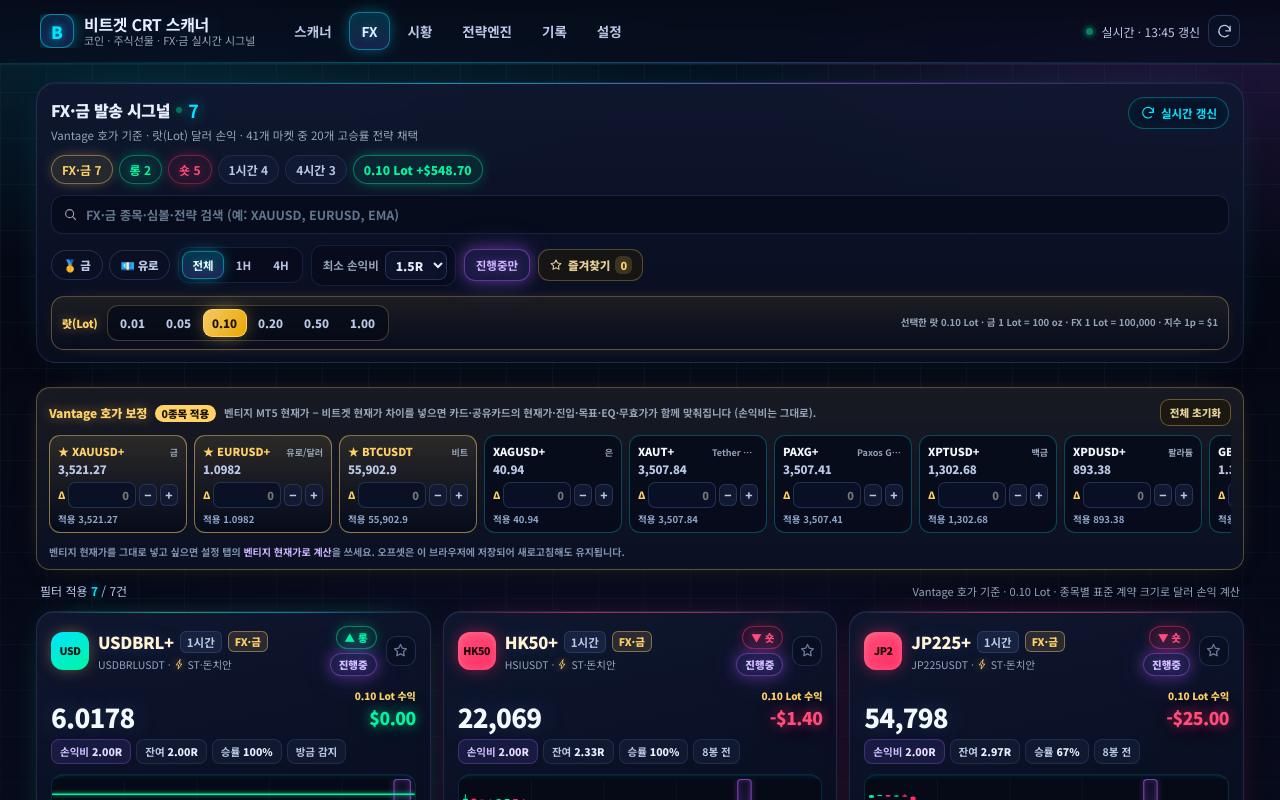
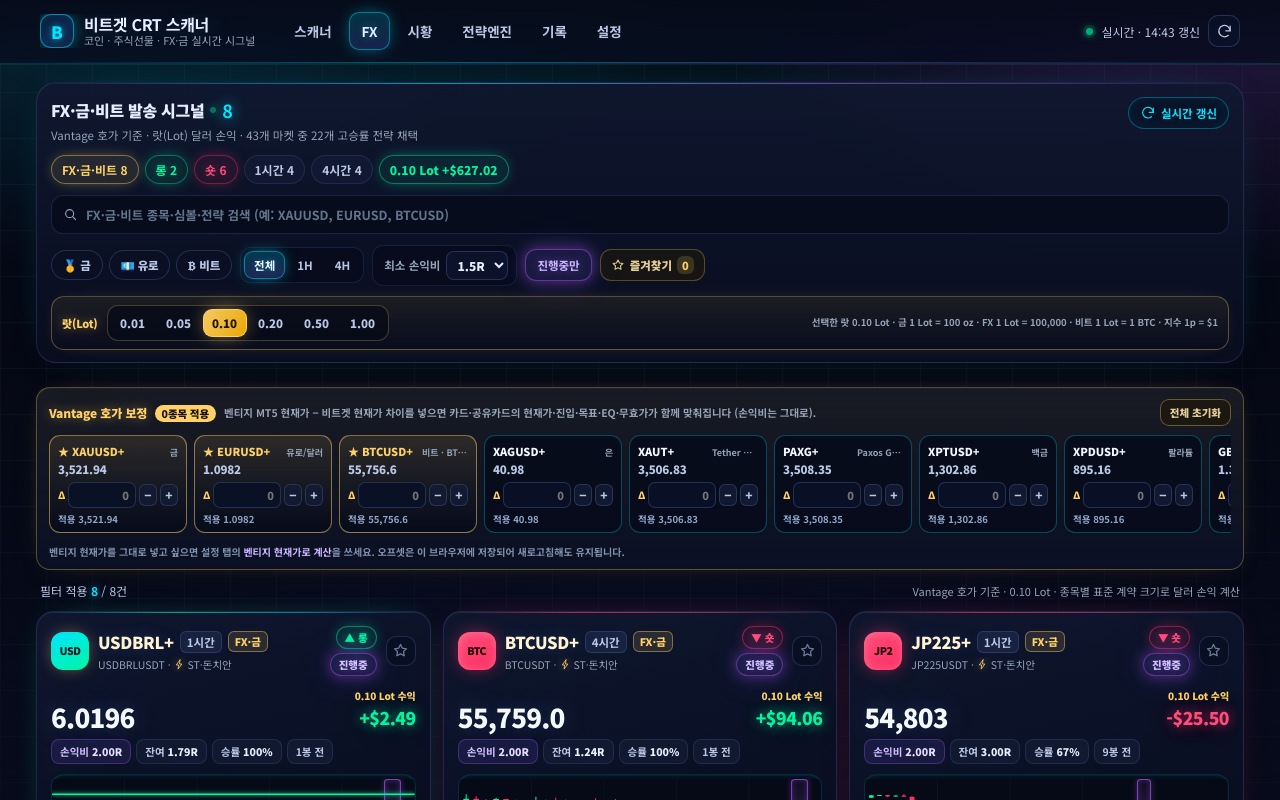
feat(fx): FX 탭에 비트코인(BTCUSD+) 랏(Lot) 카드 추가 — 1 Lot = 1 BTC
- 비트겟 BTCUSDT 1H/4H 시그널을 그대로 재사용해 FX 탭에 BTCUSD+ 카드 표시(src/lib/fxview.ts, 추가 API 호출 없음)
- lot.ts: BTCUSD+/BTCUSD/BTC = 1 Lot = 1 BTC (가격차 × 1 × lot)
- FX 탭 퀵 필터 ₿ 비트 추가, 카운터·배지에 BTCUSD+ 포함
- ★ BTCUSD+ 호가 보정 입력이 카드·공유 카드 가격에 반영(저장 키는 기존 BTC 별칭)
- 검증: lot-check 24종목 + fx-lot-check 43항목 PASS, 스크린샷 15-fx-btc-lot.png

diff --git a/src/components/FxTab.tsx b/src/components/FxTab.tsx
@@ -2,6 +2,7 @@ import { useEffect, useMemo, useState } from 'react';
 import type { Signal } from '../engine/types';
 import type { ScanState } from '../hooks/useScanner';
 import { favoriteKey, type FavoriteEntry } from '../lib/favorites';
+import { fxTabSignals, isFxCryptoSymbol, isFxFavorite, toFxView } from '../lib/fxview';
 import { tfLabel } from '../lib/format';
 import { offsetFor, shiftSignal } from '../lib/offset';
 import type { Settings } from '../lib/storage';
@@ -21,10 +22,11 @@ interface Props {
   onRescan: () => void;
 }
 
-/** 주력 2종목 원클릭 퀵 필터 */
+/** 주력 3종목 원클릭 퀵 필터 — 금 · 유로 · 비트 */
 const QUICK_FILTERS: { key: string; label: string; query: string; hint: string }[] = [
   { key: 'gold', label: '🥇 금', query: 'XAU', hint: 'XAUUSD+ · 금 현물' },
   { key: 'euro', label: '💶 유로', query: 'EURUSD', hint: 'EURUSD+ · 유로/달러' },
+  { key: 'btc', label: '₿ 비트', query: 'BTCUSD', hint: 'BTCUSD+ · 비트코인 (1 Lot = 1 BTC)' },
 ];
 
 const PAGE_SIZE = 12;
@@ -61,7 +63,7 @@ export function FxTab({
     setVisible(PAGE_SIZE);
   }, [query, tf, onlyOpen, favOnly, settings.minRR, lot]);
 
-  const fxSignals = useMemo(() => state.signals.filter((s) => s.asset === 'fx'), [state.signals]);
+  const fxSignals = useMemo(() => fxTabSignals(state.signals), [state.signals]);
   const openFx = useMemo(() => fxSignals.filter((s) => s.state === 'open'), [fxSignals]);
 
   const counts = useMemo(
@@ -92,13 +94,16 @@ export function FxTab({
     return map;
   }, [state.signals]);
 
-  const fxFavorites = useMemo(() => favorites.filter((f) => f.signal.asset === 'fx'), [favorites]);
+  const fxFavorites = useMemo(() => favorites.filter((f) => isFxFavorite(f.signal)), [favorites]);
 
   const favoriteSignals = useMemo(() => {
     return fxFavorites
       .filter((f) => matchesQuery(liveByKey.get(f.key) ?? f.signal, terms))
-      .map((f) => ({ entry: f, signal: liveByKey.get(f.key) ?? null }))
-      .map(({ entry, signal }) => ({ signal: signal ?? entry.signal, stale: !signal }))
+      .map((f) => {
+        const live = liveByKey.get(f.key);
+        // 코인으로 찜한 BTC도 FX 탭에서는 BTCUSD+ 카드로 보여준다.
+        return { signal: toFxView(live ?? f.signal), stale: !live };
+      })
       .sort((a, b) => {
         const rank = (x: { signal: Signal }) => (x.signal.state === 'open' ? 0 : 1);
         if (rank(a) !== rank(b)) return rank(a) - rank(b);
@@ -128,10 +133,12 @@ export function FxTab({
   const remaining = filtered.length - shown.length;
   const activeQuick = QUICK_FILTERS.find((q) => q.query.toLowerCase() === query.trim().toLowerCase());
 
-  const qualified = state.analyses.filter(
-    (a) => a.asset === 'fx' && a.activeWinRate >= 55 && a.activeRR >= 1.5 && a.activeN >= 2,
+  // FX·금 + BTCUSD+(비트겟 BTCUSDT 분석 재사용) — 마켓 수·고승률 전략 수
+  const fxAnalyses = state.analyses.filter((a) => a.asset === 'fx' || isFxCryptoSymbol(a.symbol));
+  const qualified = fxAnalyses.filter(
+    (a) => a.activeWinRate >= 55 && a.activeRR >= 1.5 && a.activeN >= 2,
   ).length;
-  const fxMarkets = state.analyses.filter((a) => a.asset === 'fx').length;
+  const fxMarkets = fxAnalyses.length;
   const scanning = state.status === 'scanning';
   const pct = state.progress.total ? Math.round((state.progress.done / state.progress.total) * 100) : 0;
 
@@ -141,7 +148,7 @@ export function FxTab({
         <div className="summary-top">
           <div>
             <div className="summary-title">
-              FX·금 발송 시그널 <span className="dot-live" /> <b>{counts.open}</b>
+              FX·금·비트 발송 시그널 <span className="dot-live" /> <b>{counts.open}</b>
             </div>
             <div className="summary-sub">
               Vantage 호가 기준 · 랏(Lot) 달러 손익 · {fxMarkets}개 마켓 중 {qualified}개 고승률 전략 채택
@@ -154,7 +161,7 @@ export function FxTab({
         </div>
 
         <div className="counter-row">
-          <span className="counter fx">FX·금 {counts.open}</span>
+          <span className="counter fx">FX·금·비트 {counts.open}</span>
           <span className="counter long">롱 {counts.long}</span>
           <span className="counter short">숏 {counts.short}</span>
           <span className="counter">
@@ -175,7 +182,7 @@ export function FxTab({
               type="search"
               value={query}
               onChange={(e) => setQuery(e.target.value)}
-              placeholder="FX·금 종목·심볼·전략 검색 (예: XAUUSD, EURUSD, EMA)"
+              placeholder="FX·금·비트 종목·심볼·전략 검색 (예: XAUUSD, EURUSD, BTCUSD)"
               aria-label="FX 종목·심볼·전략 검색"
               enterKeyHint="search"
             />
@@ -276,7 +283,8 @@ export function FxTab({
             })}
           </div>
           <span className="lot-hint">
-            선택한 랏 {fmtLot(lot)} Lot · 금 1 Lot = 100 oz · FX 1 Lot = 100,000 · 지수 1p = $1
+            선택한 랏 {fmtLot(lot)} Lot · 금 1 Lot = 100 oz · FX 1 Lot = 100,000 · 비트 1 Lot = 1 BTC · 지수
+            1p = $1
           </span>
         </div>
 
@@ -405,7 +413,7 @@ export function FxTab({
           <div className="empty">
             <div className="empty-title">조건을 통과한 FX 시그널이 없습니다</div>
             <p>
-              현재 FX·금·원자재·지수 {fxMarkets}개 마켓을 200봉 기준으로 다시 계산했지만, 고승률 기준(승률 55% ·
+              현재 FX·금·원자재·지수·비트 {fxMarkets}개 마켓을 200봉 기준으로 다시 계산했지만, 고승률 기준(승률 55% ·
               손익비 {settings.minRR.toFixed(1)}R)을 만족하는 진행중 시그널이 없습니다.
             </p>
             <div className="empty-actions">

diff --git a/src/lib/fxview.ts b/src/lib/fxview.ts
@@ -1,0 +1,53 @@
+import type { Signal } from '../engine/types';
+
+/**
+ * FX 탭에 함께 보여줄 코인 CFD.
+ * 스캐너 탭이 이미 받아 둔 비트겟 BTCUSDT 캔들·시그널을 벤티지 MT5 표기(BTCUSD+)로 바꿔
+ * 그대로 재사용한다 — 추가 API 호출 없이 FX 탭에 바로 나타난다.
+ */
+export interface FxCryptoMeta {
+  /** 비트겟 계약 심볼(이미 스캔된 데이터) */
+  symbol: string;
+  /** FX 탭 표시 이름 — 벤티지 MT5 호가 이름 */
+  base: string;
+  /** 화면 보조 설명 */
+  note: string;
+  /** 가격 소수점 자리수(비트겟 BTCUSDT pricePlace 준용) */
+  decimals: number;
+}
+
+export const FX_CRYPTO_UNIVERSE: FxCryptoMeta[] = [
+  { symbol: 'BTCUSDT', base: 'BTCUSD+', note: '비트코인 · 1 Lot = 1 BTC', decimals: 1 },
+];
+
+const BY_SYMBOL = new Map(FX_CRYPTO_UNIVERSE.map((m) => [m.symbol, m]));
+
+export function fxCryptoMeta(symbol: string): FxCryptoMeta | undefined {
+  return BY_SYMBOL.get(symbol);
+}
+
+/** FX 탭에서 코인 CFD로 보여줄 비트겟 계약인지 */
+export function isFxCryptoSymbol(symbol: string): boolean {
+  return BY_SYMBOL.has(symbol);
+}
+
+/**
+ * 시그널을 FX 탭 카드로 바꾼다.
+ * 이미 FX·금 시그널이거나 대응하는 코인 CFD가 없으면 그대로 돌려준다(호출부에서 asset으로 거른다).
+ */
+export function toFxView(signal: Signal): Signal {
+  if (signal.asset === 'fx') return signal;
+  const meta = BY_SYMBOL.get(signal.symbol);
+  if (!meta) return signal;
+  return { ...signal, base: meta.base, asset: 'fx', decimals: meta.decimals };
+}
+
+/** FX 탭에 표시할 시그널 = 기존 FX·금·원자재·지수 + BTCUSD+ */
+export function fxTabSignals(signals: Signal[]): Signal[] {
+  return signals.map(toFxView).filter((s) => s.asset === 'fx');
+}
+
+/** FX 탭 즐겨찾기 대상 — FX·금 시그널과 BTCUSD+ 코인 CFD */
+export function isFxFavorite(signal: Signal): boolean {
+  return signal.asset === 'fx' || isFxCryptoSymbol(signal.symbol);
+}

diff --git a/src/utils/lot.ts b/src/utils/lot.ts
@@ -10,6 +10,7 @@ import type { Signal } from '../engine/types';
  *   · FX: 1 Lot = 100,000 (USD 견적은 가격차 × 100,000 × lot,
  *     USD/XXX·XXX/JPY는 (가격차 ÷ 청산가) × 100,000 × lot 로 달러 환산)
  *   · 지수(DXY 포함): 1 Lot = 1 계약 = 1포인트당 $1
+ *   · 비트코인(BTCUSD+): 1 Lot = 1 BTC (가격차 × 1 × lot — $1,000 이동 × 0.10 Lot = $100.00)
  */
 
 export const LOT_PRESETS = [0.01, 0.05, 0.1, 0.2, 0.5, 1] as const;
@@ -29,7 +30,11 @@ export interface LotSpec {
 
 const gold: LotSpec = { size: 100, mode: 'quote', pip: 0.01, pipUnit: '포인트', label: '1 Lot = 100 oz' };
 
+/** 벤티지 MT5 BTCUSD+ — 1 Lot = 1 BTC, 1포인트(=$1)당 lot 달러 */
+const bitcoin: LotSpec = { size: 1, mode: 'quote', pip: 1, pipUnit: '포인트', label: '1 Lot = 1 BTC' };
+
 const FIXED: Record<string, LotSpec> = {
+  BTC: bitcoin,
   XAU: gold,
   XAUT: { ...gold, label: '1 Lot = 100 oz' },
   PAXG: { ...gold, label: '1 Lot = 100 oz' },
@@ -72,6 +77,8 @@ export function lotSpec(base: string): LotSpec {
   const key = base.replace(/\+$/, '').toUpperCase();
   const fixed = FIXED[key];
   if (fixed) return fixed;
+  // BTCUSD+ · BTCUSD — 비트겟 BTCUSDT 캔들을 그대로 쓰는 벤티지 비트코인 CFD
+  if (key === 'BTCUSD') return bitcoin;
   // XAUUSD+ · XAGUSD+ · XPTUSD+ · XPDUSD+ · XAUT+ · PAXG+ — 견적통화가 붙어 있어도 금속 계약
   if (METAL_100.some((m) => key.startsWith(m))) return FIXED.XAU;
   if (key.startsWith('XAG')) return FIXED.XAG;

diff --git a/src/lib/offset.ts b/src/lib/offset.ts
@@ -3,9 +3,25 @@ import type { Signal } from '../engine/types';
 /** 종목 표시 이름(예: `XAUUSD+`) → 가격 오프셋 */
 export type OffsetMap = Record<string, number>;
 
+/**
+ * 호가 보정 저장 키 별칭 — `BTCUSD+` 카드는 호가 보정 표의 기존 ★ BTC 입력(비트겟 BTCUSDT 기준)을
+ * 그대로 쓴다. 이미 저장된 오프셋이 있어도 그대로 반영된다.
+ */
+const OFFSET_ALIAS: Record<string, string> = { 'BTCUSD+': 'BTC' };
+
+/** 표시 이름 → 오프셋 저장 키 */
+export function offsetKeyFor(base: string): string {
+  return OFFSET_ALIAS[base] ?? base;
+}
+
 export function offsetFor(base: string, offsets?: OffsetMap | null): number {
-  const v = offsets?.[base];
-  return typeof v === 'number' && Number.isFinite(v) ? v : 0;
+  if (!offsets) return 0;
+  const key = offsetKeyFor(base);
+  for (const k of key === base ? [base] : [key, base]) {
+    const v = offsets[k];
+    if (typeof v === 'number' && Number.isFinite(v)) return v;
+  }
+  return 0;
 }
 
 /**

diff --git a/src/components/FxOffsetBar.tsx b/src/components/FxOffsetBar.tsx
@@ -98,11 +98,12 @@ export function buildFxRows(state: ScanState, twelveDataKey: string): FxRow[] {
     live: scanned.has(label),
   });
 
-  // 1) 주력 3종목 고정: 금(XAUUSD+) · 유로(EURUSD+) · 비트(BTC)
+  // 1) 주력 3종목 고정: 금(XAUUSD+) · 유로(EURUSD+) · 비트(BTCUSD+, 저장 키 BTC)
   const pinned: FxRow[] = [
     { ...row('XAUUSDT', 'XAUUSD+', decimalsOf('XAUUSDT', 2), '금'), priority: true },
     { ...row('EURUSDUSDT', 'EURUSD+', decimalsOf('EURUSDUSDT', 4), '유로/달러'), priority: true },
-    { ...row('BTCUSDT', 'BTC', decimalsOf('BTCUSDT', 1), '비트', 'BTCUSDT'), priority: true },
+    // 오프셋 저장 키는 기존 ★ BTC 그대로 두고, 표시만 벤티지 표기(BTCUSD+)로 맞춘다.
+    { ...row('BTCUSDT', 'BTC', decimalsOf('BTCUSDT', 1), '비트 · BTCUSDT', 'BTCUSD+'), priority: true },
   ];
   const pinnedSymbols = new Set(pinned.map((p) => p.symbol));
 

diff --git a/src/App.tsx b/src/App.tsx
@@ -12,6 +12,7 @@ import type { Signal } from './engine/types';
 import { useFavorites } from './hooks/useFavorites';
 import { useScanner } from './hooks/useScanner';
 import { fmtTime } from './lib/format';
+import { fxTabSignals } from './lib/fxview';
 import { offsetFor } from './lib/offset';
 import { openExternalUrl } from './lib/native';
 import { checkForUpdate, RELEASES_PAGE } from './lib/update';
@@ -106,7 +107,8 @@ export default function App() {
   }, [state]);
 
   const openCount = state.signals.filter((s) => s.state === 'open' && s.asset !== 'fx').length;
-  const openFxCount = state.signals.filter((s) => s.state === 'open' && s.asset === 'fx').length;
+  // FX 탭 배지 — FX·금 시그널 + BTCUSD+(비트겟 BTCUSDT 재사용) 진행중 시그널
+  const openFxCount = fxTabSignals(state.signals).filter((s) => s.state === 'open').length;
   const lot = normalizeLot(settings.fxLot);
 
   return (

diff --git a/README.md b/README.md
@@ -63,7 +63,7 @@ npm run preview  # http://127.0.0.1:4173
 | 탭 | 내용 |
 | --- | --- |
 | 스캐너 | 코인·주식선물 전용 — TS 발생 종목 카운터(롱/숏/1시간/4시간), **₿ 비트 퀵 필터**, **종목·심볼·전략 검색**, 전체·코인·주식선물 필터, 레버리지(5/10/20/50x), 최소 손익비(1.2~2.5R), 진행중/종료, **⭐ 즐겨찾기 모아보기**, 12건씩 펼치는 **이전 시그널 더보기**, 시그널 카드(⭐ 즐겨찾기·미니 캔들 차트·목표/EQ/진입/무효·진행 게이지·전략 승률) |
-| FX | FX·금·원자재·지수 전용 — 발송 시그널 수·롱/숏/1H/4H·**선택 랏 합계 손익**, 검색, **🥇 금 · 💶 유로 퀵 필터**, 타임프레임(전체/1H/4H), **랏(Lot) 선택기(0.01~1.00)**, 최소 손익비, 진행중/종료, ⭐ 즐겨찾기, **Vantage 호가 보정 미니 바**, 카드에 `0.10 Lot 수익 +$…`·목표 `+$…`·무효 `-$…`·`1핍 $…` 표시 |
+| FX | FX·금·원자재·지수 + **비트코인(BTCUSD+)** 전용 — 발송 시그널 수·롱/숏/1H/4H·**선택 랏 합계 손익**, 검색, **🥇 금 · 💶 유로 · ₿ 비트 퀵 필터**, 타임프레임(전체/1H/4H), **랏(Lot) 선택기(0.01~1.00)**, 최소 손익비, 진행중/종료, ⭐ 즐겨찾기, **Vantage 호가 보정 미니 바**, 카드에 `0.10 Lot 수익 +$…`·목표 `+$…`·무효 `-$…`·`1포인트 $…` 표시 |
 | 시황 | 코인/주식선물/**FX·금** 상승·하락 TOP, 거래대금 TOP, 펀딩비 극단, 상승·하락 종목 수·평균 펀딩비·24h 거래대금 |
 | 전략엔진 | 6개 매매법 실시간 순위(채택 마켓·채택 승률·표본·손익비·기대 수익), 자동 교체 로그, 백테스트 재실행 |
 | 기록 | 탐지된 시그널의 적중/무효/진행 추적(최대 400건 보관), **종목·전략 검색**, 15건씩 펼치는 **이전 기록 더보기**, 실현·미실현 레버리지 수익률 |
@@ -109,7 +109,7 @@ npm run preview  # http://127.0.0.1:4173
 | --- | --- | --- |
 | `XAUUSDT` | **XAUUSD+** | 금 현물 프록시 (주력) |
 | `EURUSDUSDT` | **EURUSD+** | 유로/달러 (주력) |
-| `BTCUSDT` | **BTCUSDT** | 비트겐 코인 (주력) |
+| `BTCUSDT` | **BTCUSD+** (스캐너 탭은 코인 `BTC`) | 비트코인 (주력 · FX 탭에서도 표시) |
 | `XAGUSDT` · `XPTUSDT` · `XPDUSDT` | `XAGUSD+` · `XPTUSD+` · `XPDUSD+` | 은·백금·팔라듐 |
 | `XAUTUSDT` · `PAXGUSDT` | `XAUT+` · `PAXG+` | 금 토큰(Tether/Paxos Gold) |
 | `EURUSD` · `GBPUSD` · `USDJPY` · `USDBRL` | `EURUSD+` · `GBPUSD+` · `USDJPY+` · `USDBRL+` | FX |
@@ -119,8 +119,11 @@ npm run preview  # http://127.0.0.1:4173
 
 - **FX 탭**에서만 이 카테고리를 모아 봅니다(스캐너 탭은 코인·주식선물 전용). FX 카드는 `pricePlace` 기준 고정 소수점
   (EURUSD 4자리, USDJPY·XAUUSD 2자리, 지수 0~2자리)으로 표기합니다.
-- **주력 퀵 필터**: FX 탭의 🥇 금(`XAU`) · 💶 유로(`EURUSD`), 스캐너 탭의 ₿ 비트(`BTC`). 누르면 검색어·필터가 한 번에
-  적용되고(진행중 시그널이 없으면 종료 셋업까지 표시) 다시 누르면 해제됩니다.
+- **주력 퀵 필터**: FX 탭의 🥇 금(`XAU`) · 💶 유로(`EURUSD`) · ₿ 비트(`BTCUSD`), 스캐너 탭의 ₿ 비트(`BTC`). 누르면
+  검색어·필터가 한 번에 적용되고(진행중 시그널이 없으면 종료 셋업까지 표시) 다시 누르면 해제됩니다.
+- **비트코인은 한 번만 스캔해 두 탭이 함께 씁니다.** 스캐너 탭은 비트겟 `BTCUSDT` 캔들·시그널을 배수(x) 기준 `BTC`
+  카드로, FX 탭은 같은 데이터를 `BTCUSD+`(벤티지 호가 보정 + 랏 달러 손익) 카드로 보여줍니다 — 추가 API 호출 없음
+  (`src/lib/fxview.ts`).
 
 ### 랏(Lot) 손익 — FX 탭은 배수(x) 대신 계약 크기 기준 달러
 
@@ -138,6 +141,7 @@ FX 탭의 카드·공유 카드에는 `레버리지 10x` 같은 배수 표현이
 | `EURUSD+` `GBPUSD+` (USD 견적) | 100,000 | 가격차 × 100,000 × lot |
 | `USDJPY+` `USDBRL+` (USD가 기초) · `EURJPY+` `GBPJPY+` (JPY 견적) | 100,000 | (가격차 ÷ 청산가) × 100,000 × lot |
 | `NAS100+` `US500+` `JP225+` `HK50+` `KR200+` `DXY+` | 1 계약 | 가격차(포인트) × 1 × lot (1p = $1) |
+| `BTCUSD+` `BTCUSD` `BTC` | 1 BTC | 가격차 × 1 × lot (예: $1,000 이동 × 0.10 Lot = $100.00) |
 
 - 계산은 `src/utils/lot.ts`의 `lotSpec()`/`lotCalc()` 하나로 카드·공유 카드가 함께 씁니다.
 - 카드 우측 상단 `0.10 Lot 수익 +$125.00`, 목표/무효 아래 `+$…`/`-$…`, 하단 `0.10 Lot · 1포인트 $0.10 · 목표 250
@@ -148,7 +152,8 @@ FX 탭의 카드·공유 카드에는 `레버리지 10x` 같은 배수 표현이
 ### 벤티지 호가 보정(오프셋)
 
 - FX 탭 상단 미니 바 또는 **설정 → FX·금 · 벤티지 호가 보정**에서 종목별 오프셋을 입력합니다.
-  목록 맨 위는 주력 3종목(`XAUUSD+`, `EURUSD+`, `BTCUSDT`)으로 고정되어 있습니다.
+  목록 맨 위는 주력 3종목(`XAUUSD+`, `EURUSD+`, `BTCUSD+` — 저장 키는 기존 `BTC`)으로 고정되어 있습니다.
+  `BTCUSD+` 카드·공유 카드는 이 `★ BTCUSD+` 입력을 그대로 씁니다(`src/lib/offset.ts`의 별칭).
 - 입력 즉시 카드와 다크 공유 카드의 **현재가·진입가·목표가·EQ·무효가**가 같은 값만큼 이동합니다. 가격 차이의
   비율인 **손익비·R배수는 그대로**이고, 수익률(%)만 보정된 진입가 기준으로 다시 계산됩니다.
 - 설정 탭에서는 `MT5가 입력` 칸에 벤티지 화면의 현재가를 그대로 넣으면 `오프셋 = MT5가 − 비트겟가`로 계산됩니다.
@@ -187,11 +192,11 @@ FX 탭의 카드·공유 카드에는 `레버리지 10x` 같은 배수 표현이
 
 ```bash
 npm run build
-node scripts/lot-check.mjs    # 랏 계약 크기·핍 가치·비례 단위 검증(esbuild로 src/utils/lot.ts 번들 후 21종목 케이스)
+node scripts/lot-check.mjs    # 랏 계약 크기·핍 가치·비례 단위 검증(esbuild로 src/utils/lot.ts 번들 후 24종목 케이스 · BTCUSD+ 1 Lot = 1 BTC 포함)
 LD_LIBRARY_PATH=/workspace/.local/sysroot/root/usr/lib/x86_64-linux-gnu \
 PLAYWRIGHT_BROWSERS_PATH=$HOME/.cache/ms-playwright node scripts/capture.mjs      # 390×844 + 1280×800, 콘솔 에러 수집, PNG 저장 검증
 LD_LIBRARY_PATH=/workspace/.local/sysroot/root/usr/lib/x86_64-linux-gnu \
-PLAYWRIGHT_BROWSERS_PATH=$HOME/.cache/ms-playwright node scripts/fx-lot-check.mjs  # 6탭 레이아웃·FX 탭 랏 표시·0.01↔0.10↔1.00 비례·공유 카드·소수점/호가 보정/시황/설정 회귀
+PLAYWRIGHT_BROWSERS_PATH=$HOME/.cache/ms-playwright node scripts/fx-lot-check.mjs  # 6탭 레이아웃·FX 탭 랏 표시·FX 탭 BTCUSD+ 랏·호가 보정 연동·0.01↔0.10↔1.00 비례·공유 카드·소수점/호가 보정/시황/설정 회귀
 LD_LIBRARY_PATH=/workspace/.local/sysroot/root/usr/lib/x86_64-linux-gnu \
 PLAYWRIGHT_BROWSERS_PATH=$HOME/.cache/ms-playwright node scripts/pages-check.mjs    # /bitget-signal-scanner/ 서브패스 검증
 node scripts/favorites-check.mjs                                                  # ⭐ 즐겨찾기·검색·더보기·새로고침 유지·보관 스냅샷 검증
@@ -202,7 +207,7 @@ node scripts/live-check.mjs                                                     
 `04-market.png`, `05-history.png`, `06-desktop.png`, `07-pages-subpath.png`, `08-settings.png`,
 `09-live-pages.png`, `02-dark-card-export.png`). FX 탭·랏 화면은 `14-fx-tab-lot.png`(FX 탭 + 랏 선택기),
 `14-fx-card-lot.png`(카드의 `0.10 Lot 수익`·`+$` 손익), `14-fx-share-lot.png`(FX 공유 카드 랏 표시),
-`14-fx-tab-lot-desktop.png`(데스크톱), `13-settings-fx.png`(종목별 보정 표)입니다.
+`14-fx-tab-lot-desktop.png`(데스크톱), `13-settings-fx.png`(종목별 보정 표), `15-fx-btc-lot.png`(FX 탭 `BTCUSD+` 카드 · `0.10 Lot 수익` · `1 Lot = 1 BTC`), `15-live-fx-btc.png`(라이브 Pages 동일 화면)입니다.
 
 ## 배포 (GitHub Pages)
 
